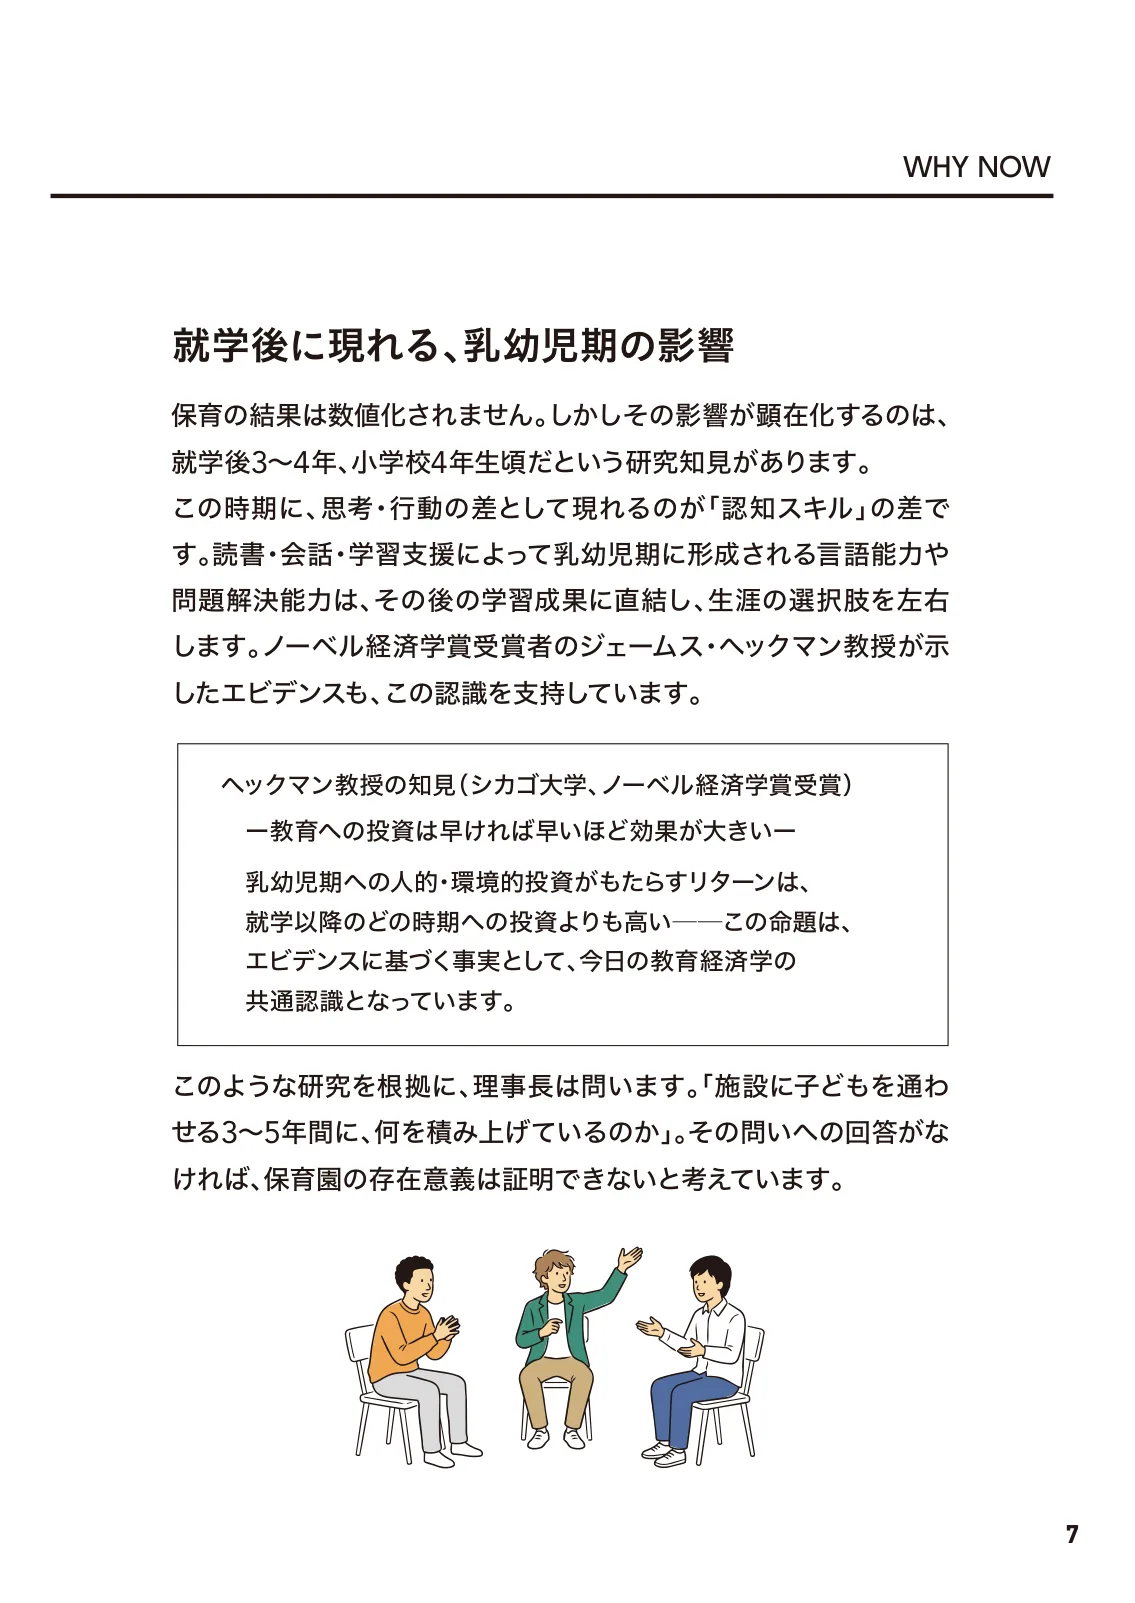
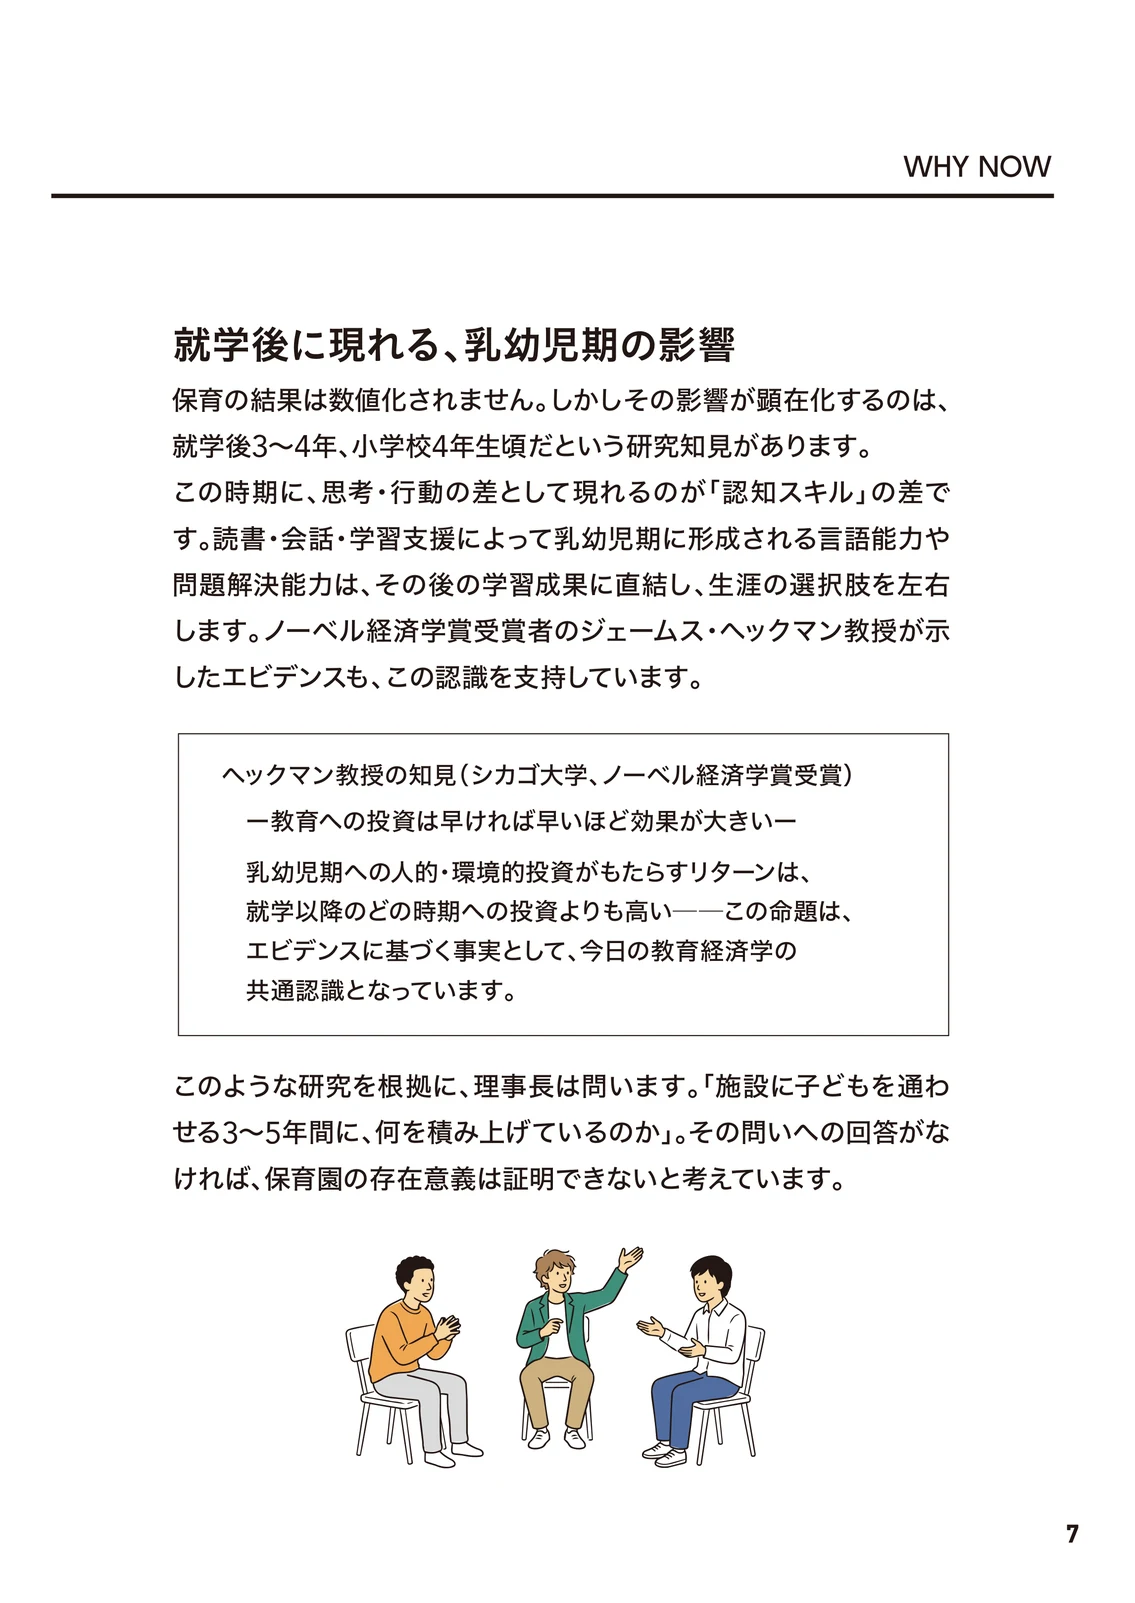
コーポレートブックを1015修正版の原稿に差し替え（画像20枚・キャッシュv=3）
Claude-Session: https://claude.ai/code/session_01P6mZ49F7risZedKRrUPLvf

diff --git a/corporate-book-flipbook.html b/corporate-book-flipbook.html
@@ -76,7 +76,7 @@ body.zooming #homeBtn{display:none}
 @media (prefers-reduced-motion:reduce){.leaf,.card{transition-duration:.01ms}}
 </style>
 
-<link rel="preload" as="image" href="corporate-book/p01.webp?v=2" fetchpriority="high">
+<link rel="preload" as="image" href="corporate-book/p01.webp?v=3" fetchpriority="high">
 <div id="boot">CORPORATE BOOK</div>
 <div id="stage"><div id="book"></div></div>
 <a id="homeBtn" href="#" aria-label="ホームに戻る"><svg viewBox="0 0 24 24" fill="none" stroke="currentColor" stroke-width="2" stroke-linecap="round" stroke-linejoin="round"><path d="M4 11L12 4L20 11"></path><path d="M6 10V19a1 1 0 0 0 1 1h10a1 1 0 0 0 1-1V10"></path><path d="M10 20v-5h4v5"></path></svg>Home</a>
@@ -100,7 +100,7 @@ body.zooming #homeBtn{display:none}
   <button id="fs" aria-label="全画面表示" title="全画面表示" style="font-size:15px">⤢</button>
 </nav>
 
-<script id="pagedata" type="application/json">["corporate-book/p01.webp?v=2", "corporate-book/p02.webp?v=2", "corporate-book/p03.webp?v=2", "corporate-book/p04.webp?v=2", "corporate-book/p05.webp?v=2", "corporate-book/p06.webp?v=2", "corporate-book/p07.webp?v=2", "corporate-book/p08.webp?v=2", "corporate-book/p09.webp?v=2", "corporate-book/p10.webp?v=2", "corporate-book/p11.webp?v=2", "corporate-book/p12.webp?v=2", "corporate-book/p13.webp?v=2", "corporate-book/p14.webp?v=2", "corporate-book/p15.webp?v=2", "corporate-book/p16.webp?v=2", "corporate-book/p17.webp?v=2", "corporate-book/p18.webp?v=2", "corporate-book/p19.webp?v=2", "corporate-book/p20.webp?v=2"]</script>
+<script id="pagedata" type="application/json">["corporate-book/p01.webp?v=3", "corporate-book/p02.webp?v=3", "corporate-book/p03.webp?v=3", "corporate-book/p04.webp?v=3", "corporate-book/p05.webp?v=3", "corporate-book/p06.webp?v=3", "corporate-book/p07.webp?v=3", "corporate-book/p08.webp?v=3", "corporate-book/p09.webp?v=3", "corporate-book/p10.webp?v=3", "corporate-book/p11.webp?v=3", "corporate-book/p12.webp?v=3", "corporate-book/p13.webp?v=3", "corporate-book/p14.webp?v=3", "corporate-book/p15.webp?v=3", "corporate-book/p16.webp?v=3", "corporate-book/p17.webp?v=3", "corporate-book/p18.webp?v=3", "corporate-book/p19.webp?v=3", "corporate-book/p20.webp?v=3"]</script>
 <script>
 const P = JSON.parse(document.getElementById('pagedata').textContent);
 const book=document.getElementById('book'), stage=document.getElementById('stage');
